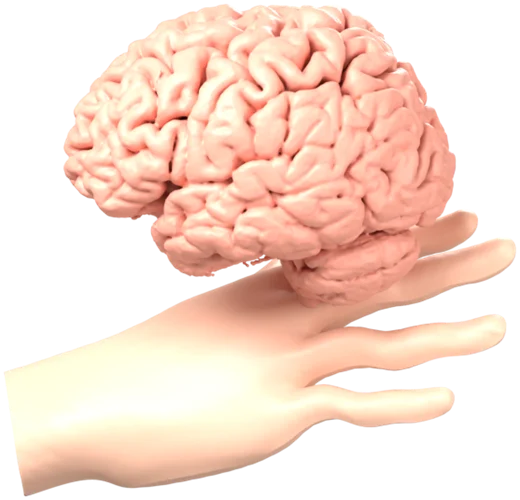
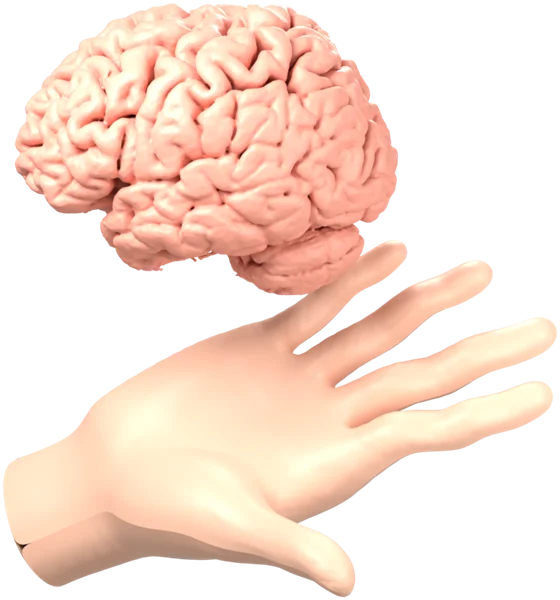
Modelo 12: mão com a palma para cima e o cérebro flutuando sobre ela
A palma estava virada para baixo (lado da palma invertido no modelo) e o cérebro encostava na mão
pelo tronco. Agora a palma fica para cima, em concha, a mão é maior e o cérebro flutua acima dela,
sem tronco. O papel do card foi para a direita para não esconder os dedos.

diff --git a/modelos/12-psicologia/src/components/Home.js b/modelos/12-psicologia/src/components/Home.js
@@ -47,14 +47,14 @@ export function Therapies(site) {
   });
 }
 
-/** Card do Instagram: faixa bege com o cérebro realista na mão, painel azul, selo saindo do card e papel rasgado. */
+/** Card do Instagram: faixa bege com o cérebro realista flutuando sobre a mão, painel azul, selo saindo do card e papel rasgado. */
 export function Content(site) {
   const { content: c } = site;
   const target = resolveAction(site, c.action);
   return renderTarget(target, {
     className: 'card card--conteudo reveal',
     label: c.title,
-    content: `<span class="card__fundo" aria-hidden="true"><span class="conteudo__painel"></span>${Art('cerebro-mao.webp', 'art--cerebro-mao', [520, 500])}</span>
+    content: `<span class="card__fundo" aria-hidden="true"><span class="conteudo__painel"></span>${Art('cerebro-mao.webp', 'art--cerebro-mao', [560, 600])}</span>
       <span class="selo">${Art('carinha-mao', 'art--selo')}<span>${c.badge.map(esc).join('<br>')}</span></span>
       <span class="card__texto">
         <span class="card__titulo card__titulo--display">${esc(c.title)}</span>

diff --git a/modelos/12-psicologia/src/styles/components/cards.css b/modelos/12-psicologia/src/styles/components/cards.css
@@ -371,11 +371,12 @@ button.card {
   background: var(--azul);
 }
 
+/* O punho (corte reto do modelo) fica abaixo da borda de baixo do card, escondido */
 .art--cerebro-mao {
   z-index: 1;
-  left: -1cqw;
-  top: 3.4cqw;
-  width: 40cqw;
+  left: 5cqw;
+  top: 5.4cqw;
+  width: 43.5cqw;
   filter: drop-shadow(0 2cqw 2.4cqw rgba(20, 25, 45, 0.35));
 }
 
@@ -387,11 +388,11 @@ button.card {
 }
 
 .papel-real--faixa {
-  left: 33cqw;
+  left: 40cqw;
   top: 20cqw;
-  width: 64cqw;
+  width: 57cqw;
   min-height: 14.4cqw;
-  padding: 3cqw 5cqw 3cqw 11cqw;
+  padding: 3cqw 5cqw 3cqw 5cqw;
   font-size: max(9px, 2.05cqw);
   line-height: 1.35;
   transform: rotate(-1deg);

diff --git a/scripts/blender/cerebro_mao.py b/scripts/blender/cerebro_mao.py
@@ -1,4 +1,4 @@
-# Cérebro realista de lado, apoiado na palma de uma mão, para o card do Instagram do Modelo 12.
+# Cérebro realista de lado, flutuando sobre a palma de uma mão, para o card do Instagram do Modelo 12.
 # Renderiza um PNG sem fundo. Modelos usados:
 #   - Cérebro: "3D model of the Brain", Nevit Dilmen, M.D. — NIH 3D, 3DPX-003765, licença CC BY-SA 4.0
 #     https://3d.nih.gov/entries/3DPX-003765 (GLB "3DModel of Brain NevitDilmen_NIH3D.glb").
@@ -11,6 +11,7 @@
 #       --cerebro cerebro.glb --mao right.glb --tamanho 1200 --saida cerebro-mao.png
 #
 # Opções: --cor-cerebro e --cor-pele (hex), --corte (mm: o tronco abaixo disso é removido),
+#         --flutua (distância entre a palma e o cérebro, que fica flutuando sobre a mão),
 #         --giro (graus do cérebro em torno do eixo vertical), --amostras.
 import argparse
 import math
@@ -27,7 +28,8 @@ args.add_argument('--saida', default='cerebro-mao.png')
 args.add_argument('--tamanho', type=int, default=1200)
 args.add_argument('--cor-cerebro', default='#e39886')
 args.add_argument('--cor-pele', default='#f0bfa6')
-args.add_argument('--corte', type=float, default=-55)
+args.add_argument('--corte', type=float, default=-88)
+args.add_argument('--flutua', type=float, default=2.1)
 args.add_argument('--giro', type=float, default=90)
 args.add_argument('--amostras', type=int, default=128)
 opt = args.parse_args(sys.argv[sys.argv.index('--') + 1:] if '--' in sys.argv else [])
@@ -63,10 +65,11 @@ for o in list(sc.objects):
         bpy.data.objects.remove(o)
 arm = next(o for o in sc.objects if o.type == 'ARMATURE')
 mao = next(o for o in sc.objects if o.type == 'MESH')
-# No arquivo: dedos para -Z, palma voltada para +X, polegar para +Y
-base = Matrix(((0, 0, -1, 0), (0, 1, 0, 0), (1, 0, 0, 0), (0, 0, 0, 1)))
-inclina = Matrix.Rotation(math.radians(-24), 4, 'Y') @ Matrix.Rotation(math.radians(30), 4, 'X')
-arm.matrix_world = inclina @ base @ Matrix.Scale(22, 4)
+# No arquivo: dedos para -Z, palma voltada para -X (o dorso para +X), polegar para +Y.
+# Fica: dedos para a direita, palma para cima, polegar para o lado da câmera.
+base = Matrix(((0, 0, -1, 0), (0, -1, 0, 0), (-1, 0, 0, 0), (0, 0, 0, 1)))
+inclina = Matrix.Rotation(math.radians(-18), 4, 'Y') @ Matrix.Rotation(math.radians(38), 4, 'X')  # palma à mostra
+arm.matrix_world = inclina @ base @ Matrix.Scale(30, 4)
 bpy.context.view_layer.update()
 
 # Pose (no espaço do arquivo): dedos juntos (giro em torno de X, a normal da palma) e levemente
@@ -85,10 +88,10 @@ def girar(nome, graus, eixo):
 
 for dedo, graus in (('index', -6), ('ring', 5), ('pinky', 11)):
     girar(f'{dedo}-finger-phalanx-proximal', graus, Vector((1, 0, 0)))
-curva = {'phalanx-proximal': 10, 'phalanx-intermediate': 12, 'phalanx-distal': 8}
+curva = {'phalanx-proximal': 12, 'phalanx-intermediate': 15, 'phalanx-distal': 10}
 for dedo in ('index-finger', 'middle-finger', 'ring-finger', 'pinky-finger'):
     for parte, graus in curva.items():
-        girar(f'{dedo}-{parte}', -graus, Vector((0, 1, 0)))
+        girar(f'{dedo}-{parte}', graus, Vector((0, 1, 0)))  # pontas para -X: em direção à palma
 girar('thumb-metacarpal', 12, Vector((0, 0, 1)))
 bpy.ops.object.mode_set(mode='OBJECT')
 sub = mao.modifiers.new('suave', 'SUBSURF')
@@ -103,9 +106,9 @@ nos = [arm.matrix_world @ ossos[f'{d}-finger-phalanx-proximal'].head for d in ('
 pulso = arm.matrix_world @ ossos['wrist'].head
 juntas = sum(nos, Vector()) / 4
 pontas = sum((arm.matrix_world @ ossos[f'{d}-finger-tip'].head for d in ('index', 'middle', 'ring', 'pinky')), Vector()) / 4
-normal =((inclina @ base).to_3x3() @ Vector((1, 0, 0))).normalized()
+normal = ((inclina @ base).to_3x3() @ Vector((-1, 0, 0))).normalized()
 
-# ---------- Cérebro de lado, com um pedaço do tronco apoiado na palma ----------
+# ---------- Cérebro de lado, flutuando sobre a palma ----------
 bpy.ops.import_scene.gltf(filepath=opt.cerebro)
 cerebro = next(o for o in sc.objects if o.type == 'MESH' and o != mao)
 cerebro.data.transform(cerebro.matrix_world)
@@ -121,7 +124,7 @@ pts = [v.co for v in cerebro.data.vertices]
 mn = Vector((min(p.x for p in pts), min(p.y for p in pts), min(p.z for p in pts)))
 mx = Vector((max(p.x for p in pts), max(p.y for p in pts), max(p.z for p in pts)))
 escala = 2.9 / (mx.z - mn.z)
-centro = Vector(((mn.x + mx.x) / 2, (mn.y + mx.y) / 2, mn.z))  # base do tronco na origem
+centro = Vector(((mn.x + mx.x) / 2, (mn.y + mx.y) / 2, mn.z))  # base do cérebro na origem
 cerebro.data.transform(Matrix.Rotation(math.radians(opt.giro), 4, 'Z') @ Matrix.Scale(escala, 4) @ Matrix.Translation(-centro))
 cerebro.data.update()
 for f in cerebro.data.polygons:
@@ -131,12 +134,12 @@ liso.factor = 0.6
 liso.iterations = 4
 cerebro.data.materials.clear()
 cerebro.data.materials.append(pele('cerebro', opt.cor_cerebro, 0.5, 0.25))
-# Proporções do print: as pontas dos dedos ficam ~0,5 cérebro à direita do centro do cérebro.
-# O tronco apoia na linha punho → juntas, no ponto com esse x.
+# Proporções do print: o cérebro fica sobre o meio da palma (pontas ~0,7 cérebro à direita do centro).
+# Fica acima da linha punho → juntas, no ponto com esse x.
 larg = max(v.co.x for v in cerebro.data.vertices) - min(v.co.x for v in cerebro.data.vertices)
-x_centro = pontas.x - 0.52 * larg
+x_centro = pontas.x - 0.72 * larg
 t = max(0.0, min(1.2, (x_centro - pulso.x) / (juntas.x - pulso.x)))
-cerebro.location = pulso.lerp(juntas, t) + normal * 0.05
+cerebro.location = pulso.lerp(juntas, t) + Vector((0, 0, opt.flutua))  # sem encostar: flutuando sobre a palma
 cerebro.rotation_euler = (math.radians(4), 0, 0)
 
 # ---------- Luz, câmera e render ----------
